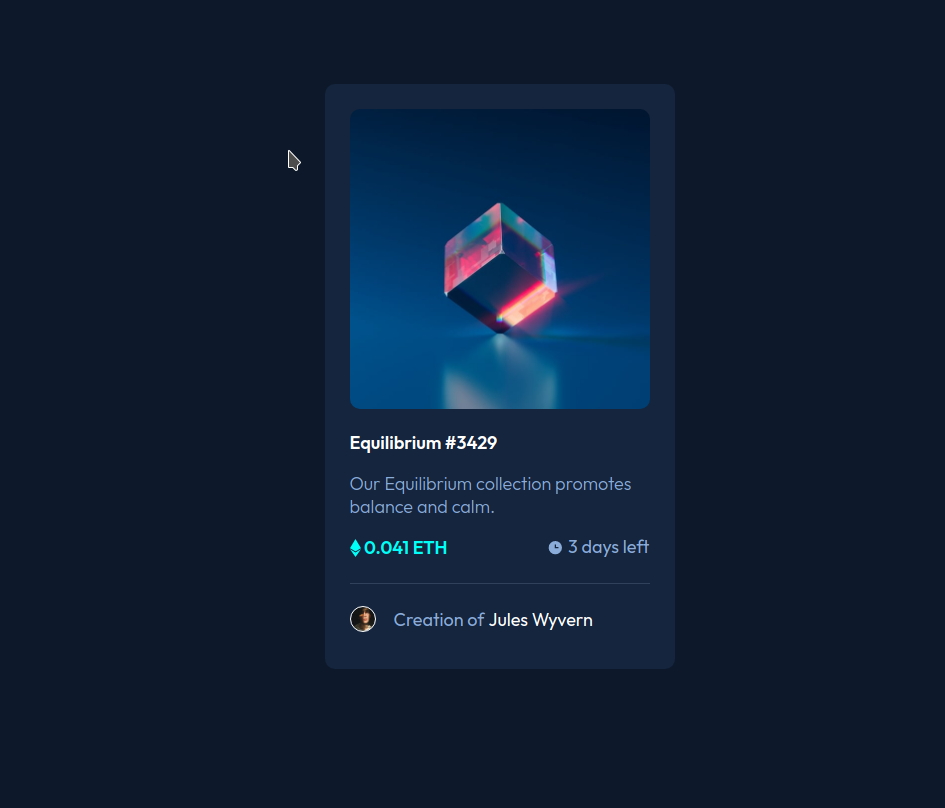
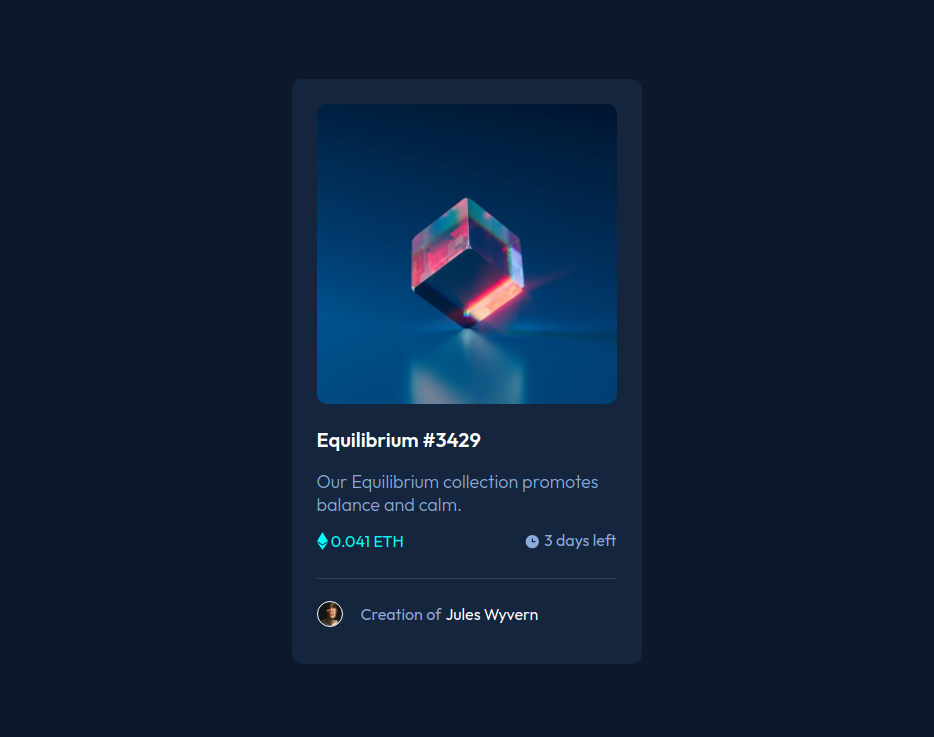
Fix font sizes

Changed region(s): [[0.3415, 0.2185, 0.7141, 0.7802], [0.3415, 0.8114, 0.5899, 0.8738], [0.2794, 0.1872, 0.3415, 0.2185]]

diff --git a/style.css b/style.css
@@ -52,6 +52,7 @@ main {
 }
 
 .stats {
+  font-size: 16px;
   position: relative;
   width: 100%;
   text-align:center;
@@ -59,9 +60,10 @@ main {
 }
 
 .eth-text {
+ 
   position: absolute;
   left: 0px;
-  font-weight: 600;
+  font-weight: 400;
   margin-left: 0px;
   color: hsl(178, 100%, 50%);
 }
@@ -88,12 +90,13 @@ main {
 }
 
 .card h1 {
-  font-size: 18px;
+  font-size: 20px;
   font-weight: 600;
   color: hsl(0,0%, 100%);
 }
 
 .author {
+  font-size: 16px;
   display: grid;
   grid-template-columns: 10% 1fr;
   grid-gap: 10px;
